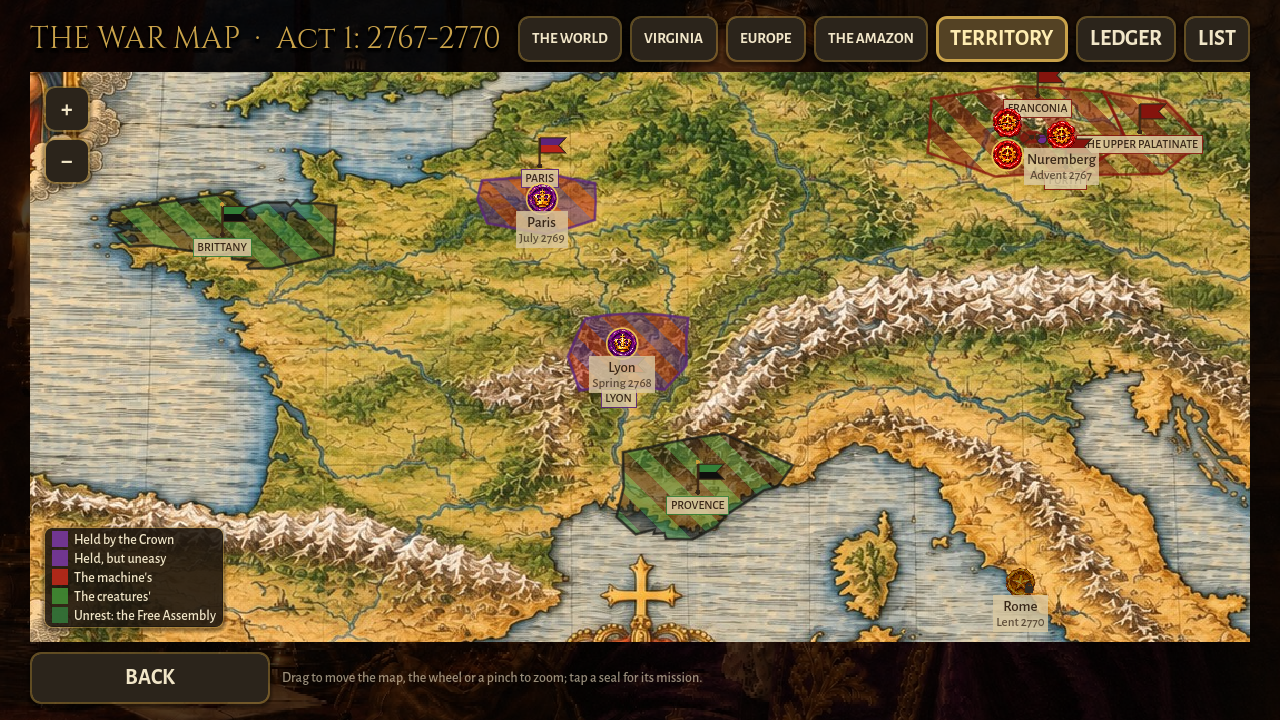
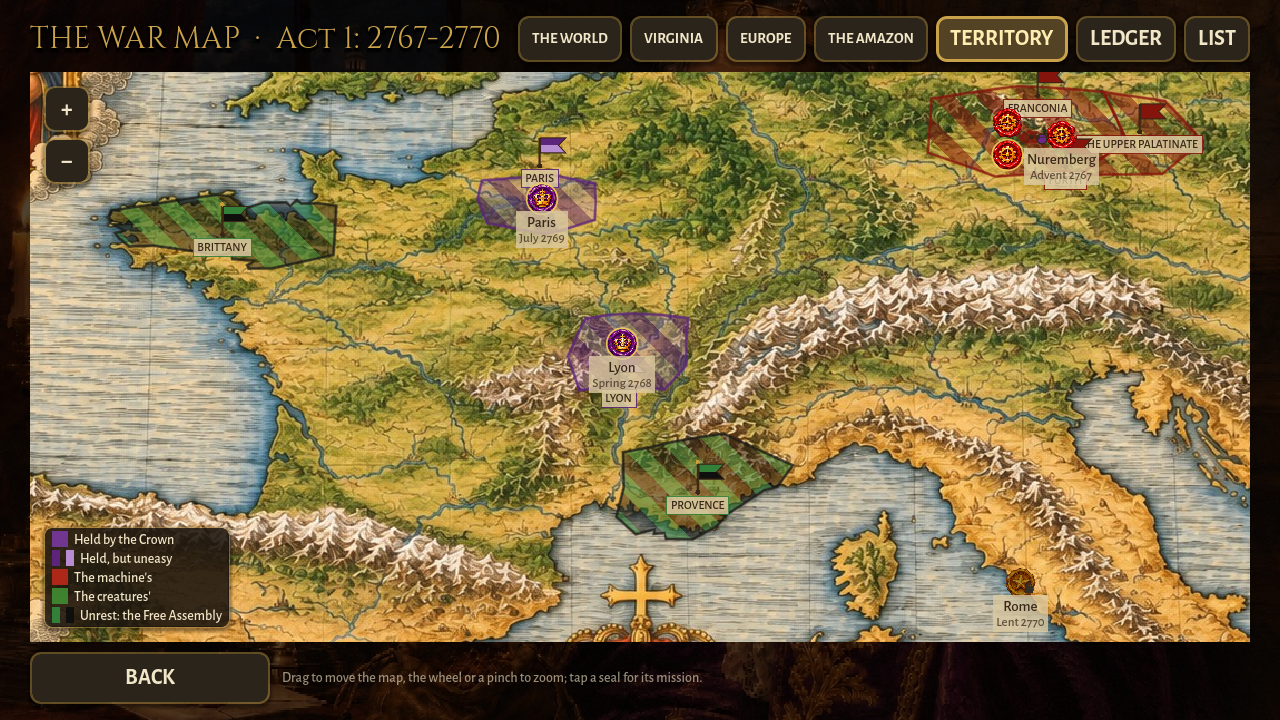
0.38.124: the Crown's uneasy land is purple only (red is the machine's)
Claude-Session: https://claude.ai/code/session_01NtmEZhP1uA8k4DLQ7BYfMz

diff --git a/docs/war_map_v1.md b/docs/war_map_v1.md
@@ -230,8 +230,8 @@ missing file) draws the old code map. Rerun the tool with `--check <dir>` for pi
 ## Territory on the paintings (0.38.123, the owner 2026-11-21 23:48 "Do that")
 
 Held regions are filled with diagonal STRIPES in the holder's colour (14 sheet pixels a band, one pattern for every
-region so neighbours line up; gaps between bands so the painting shows; contested = the Crown's purple and the
-machine's crimson alternating, unrest = green and black; unknown land = only its dashed edge), a thin edge in the same
+region so neighbours line up; gaps between bands so the painting shows; contested (the Crown's, uneasy) = purple and pale purple
+alternating (owner 2026-11-22: the Crown's land is only purple, red is the machine's), unrest = green and black; unknown land = only its dashed edge), a thin edge in the same
 colour, and a FLAG (a pole and a swallowtail pennant, split for contested/unrest) at the region's middle that steps
 aside from the seals; its name on a small ribbon (on the world sheet only once zoomed in). Built once per sheet and
 state (WarMap._terr_build): the region as cut to the real coasts on the drawn map, warped by WarMapData.painted_px, so

diff --git a/README.md b/README.md
@@ -2,7 +2,7 @@
 
 *(the game was called Holdfast until November 2026, but that name belongs to another game; the old address, holdfastrts.github.io/Holdfast/, stops working once the organization is renamed)*
 
-**Play in your browser (version 0.38.123): https://triumviwar.github.io/**
+**Play in your browser (version 0.38.124): https://triumviwar.github.io/**
 
 **Windows program: https://triumviwar.github.io/Triumviwar_windows.zip** (rebuilt on every push; unzip it and run Triumviwar.exe; if Windows warns "Windows protected your PC", click More info, then Run anyway)
 
